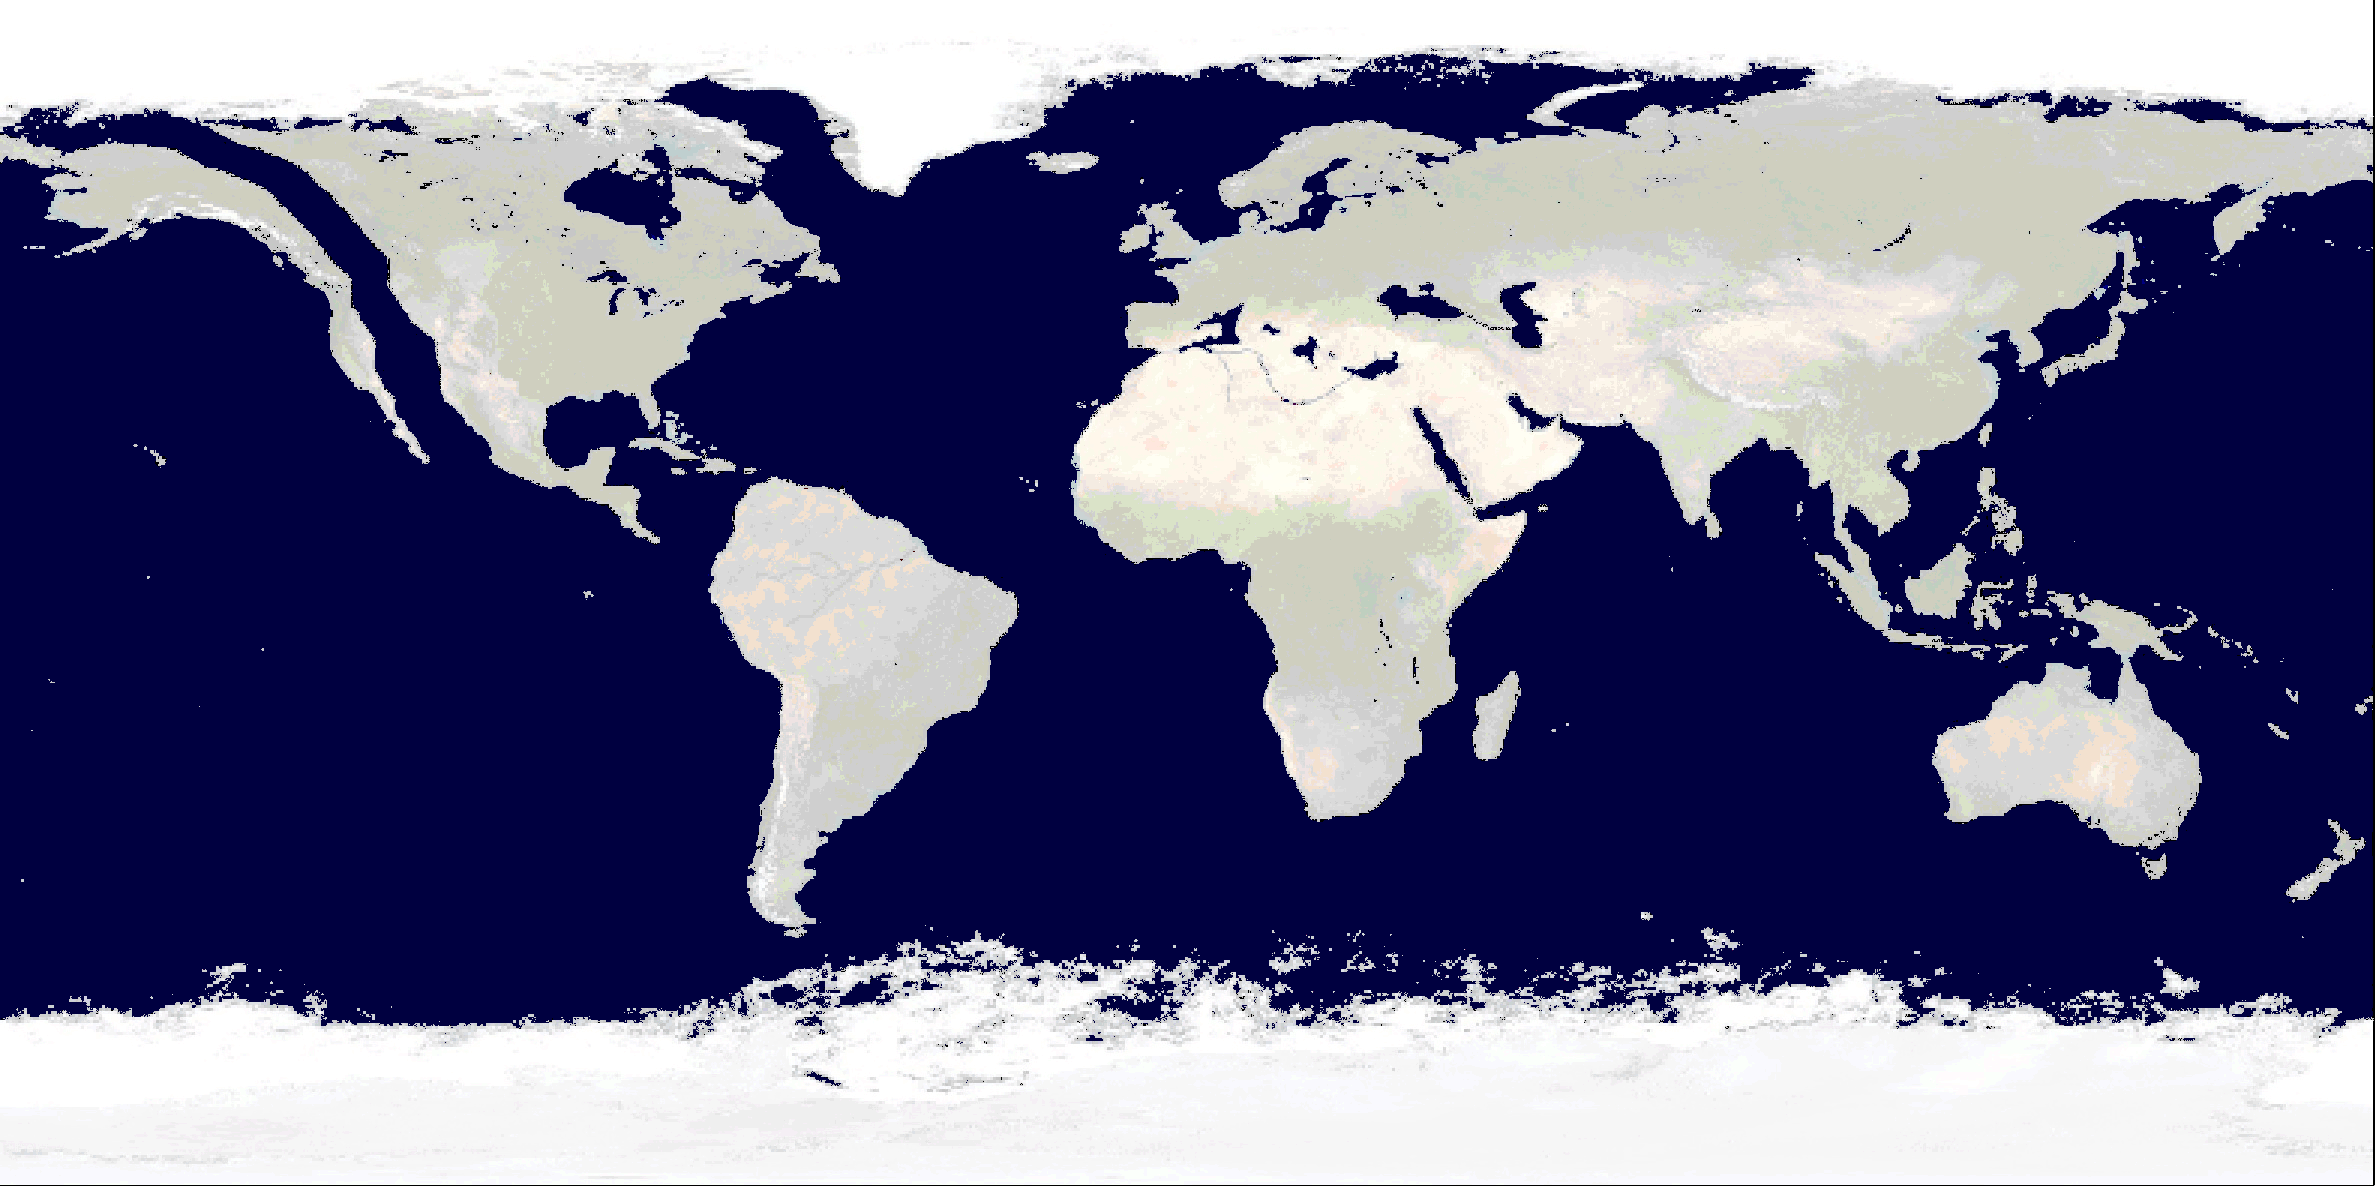
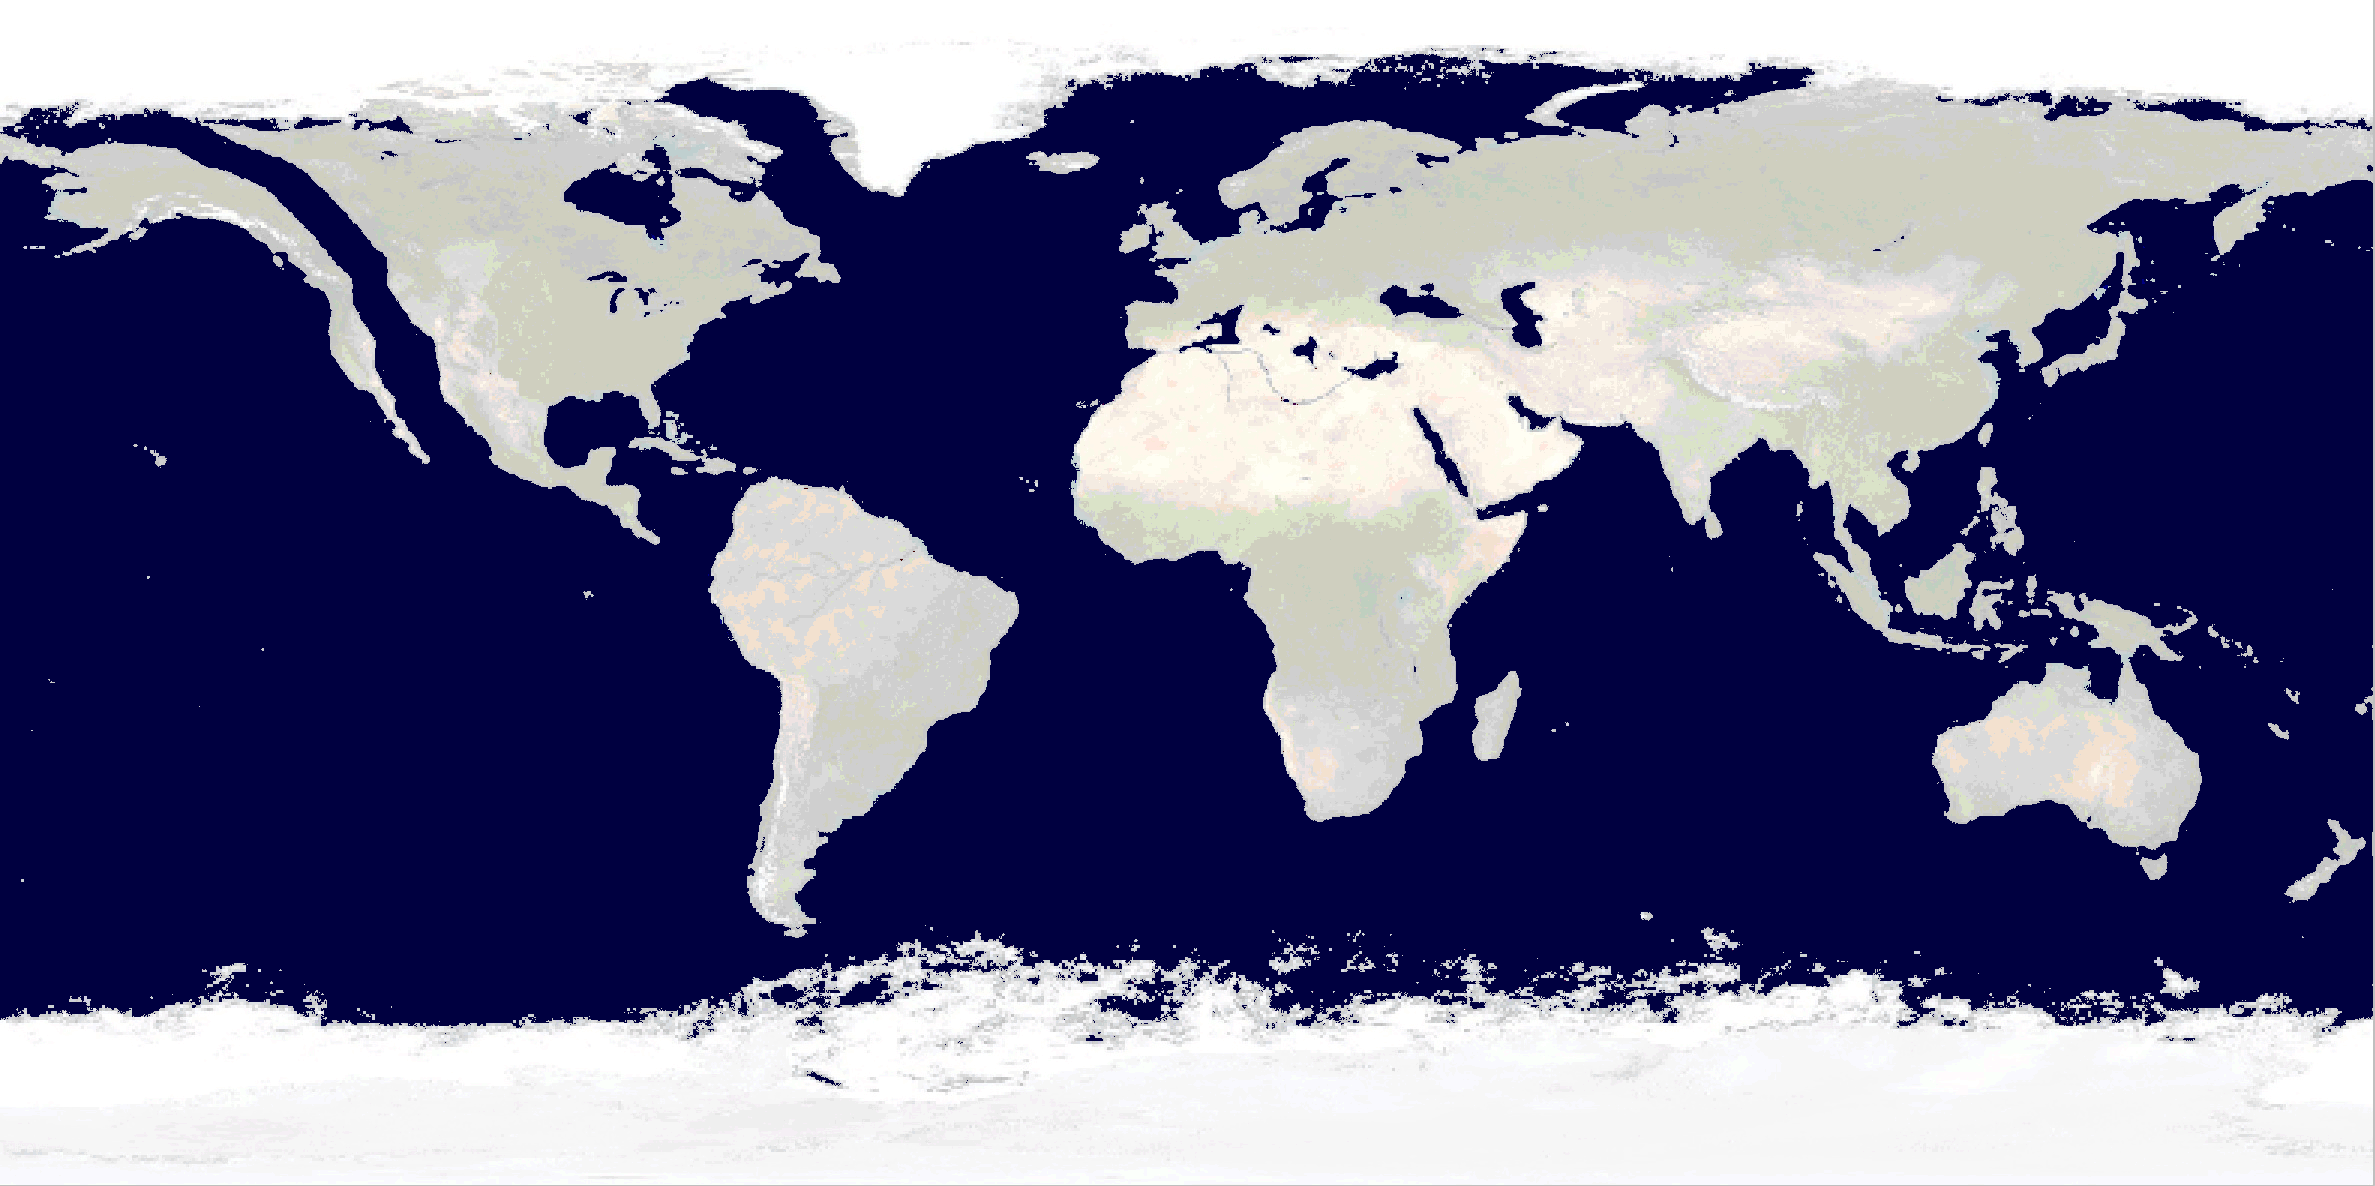
modif param dbscan

Changed region(s): [[0.0, 0.0, 1.0, 1.0]]

diff --git a/src/CopieImage.java b/src/CopieImage.java
@@ -485,7 +485,7 @@ public class CopieImage {
             copieImage.afficherBiome(outputBiomePath,list_pixel_cluster, biomeId);
 
             // On crée un objet DBSCANPosition pour le clustering
-            DBScan dbscanPos = new DBScan(2, 1);
+            DBScan dbscanPos = new DBScan(2, 9);
 
             // On récupère les positions des pixels pour le biome actuel
             ArrayList<int[]> positions = copieImage.getPositionsForBiome(list_pixel_cluster, biomeId);
